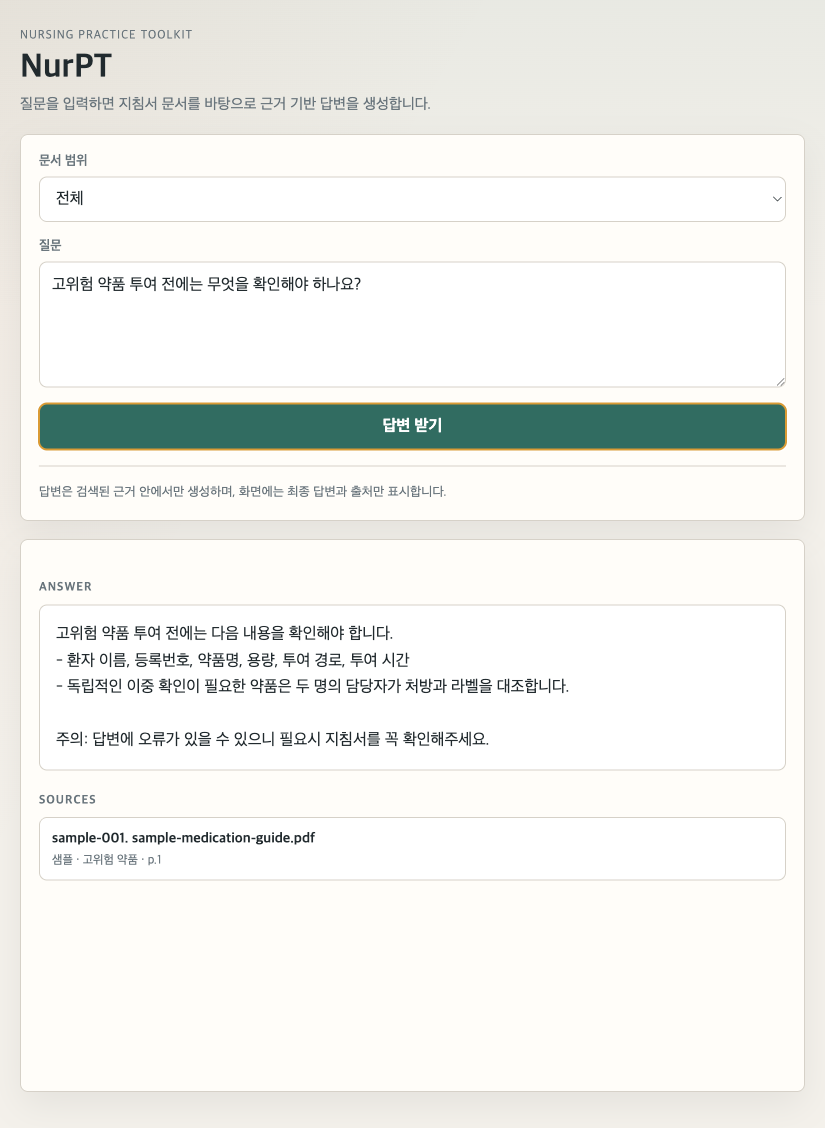
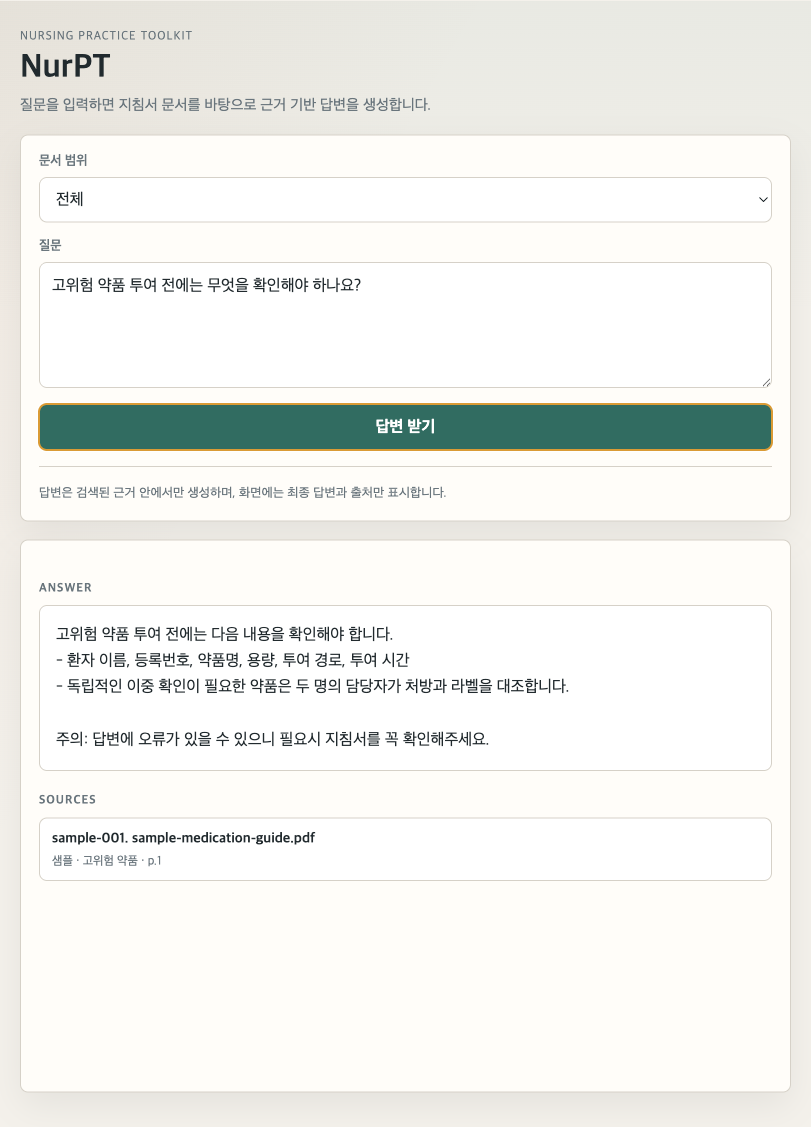
Refresh demo screenshots

diff --git a/README.md b/README.md
@@ -73,7 +73,7 @@ flowchart LR
 
 <img src="docs/images/nurpt-demo.png" alt="NurPT sample demo" width="720">
 
-`검사/검체` 문서 범위 필터를 적용한 화면:
+`영상검사/시술` 문서 범위 필터를 적용한 화면:
 
 <img src="docs/images/nurpt-filter-demo.png" alt="NurPT filtered sample demo" width="720">
 
